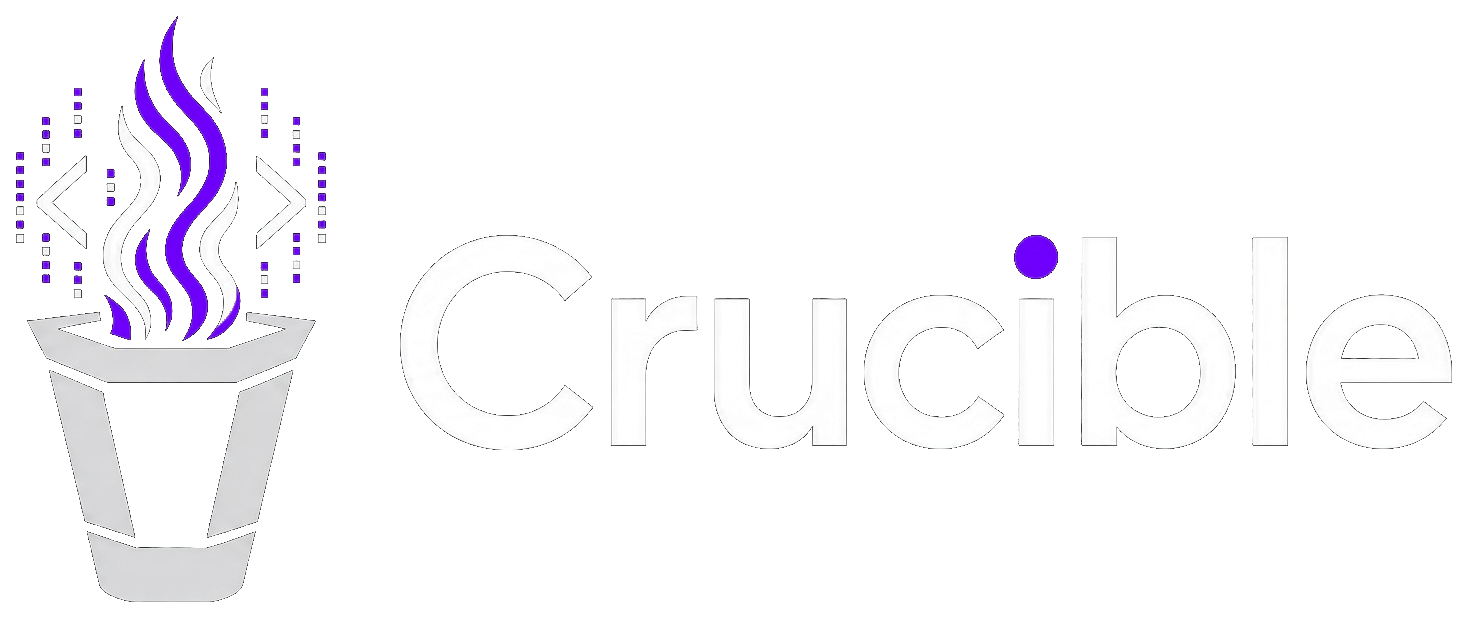
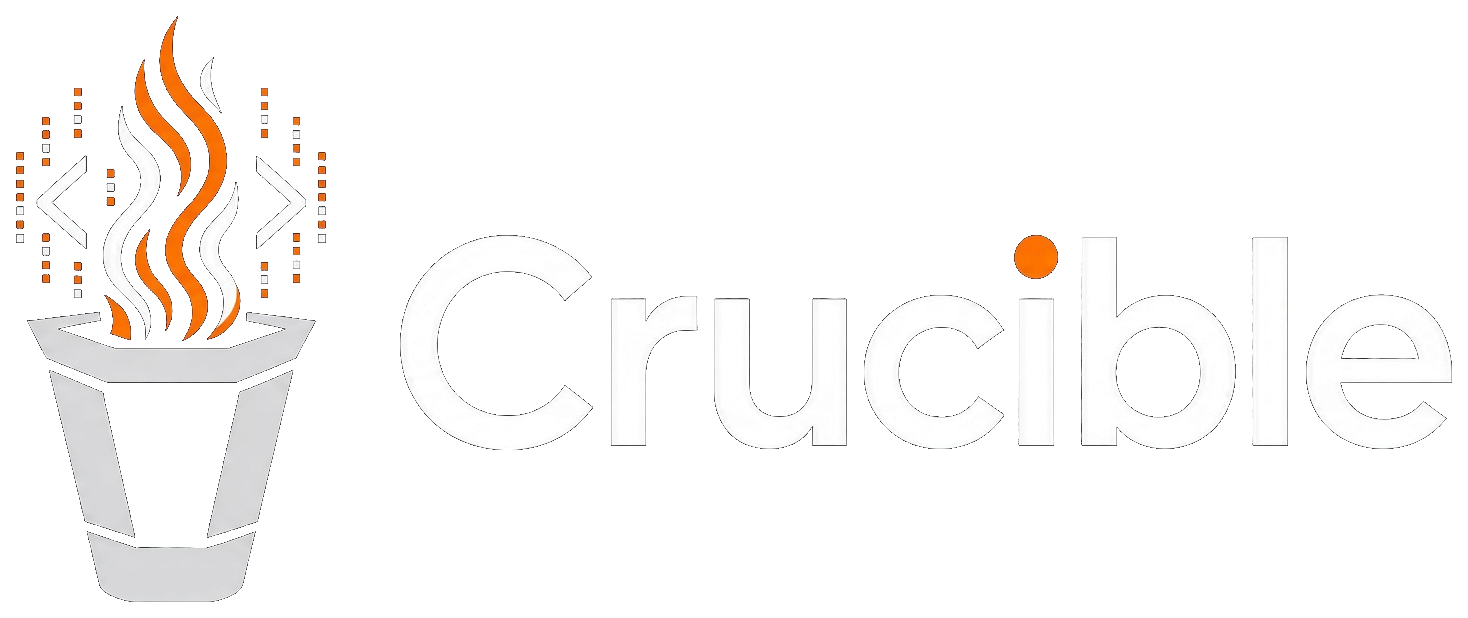
Revert Crucible brand from purple back to orange

diff --git a/crucible/src/app/globals.css b/crucible/src/app/globals.css
@@ -3,11 +3,10 @@
 @tailwind utilities;
 
 /*
-  Crucible brand tokens (purple).
+  Crucible brand tokens.
   Slate/orange/amber scales invert semantically in .dark so existing
   light-oriented utilities (text-slate-900, border-slate-200, bg-orange-50…)
-  stay readable without rewriting every page. The --orange-* scale is remapped
-  to the purple brand so legacy orange-* Tailwind classes follow the brand.
+  stay readable without rewriting every page.
 */
 
 :root {
@@ -17,19 +16,19 @@
   --line: #ddd4cb;
   --text: #12141a;
   --muted: #6b6570;
-  --accent: #7c3aed;
-  --accent-2: #8b5cf6;
+  --accent: #ff5a1f;
+  --accent-2: #ff7a3d;
   --danger: #e11d48;
   --warning: #d97706;
   --background: #f7f4f1;
   --foreground: #12141a;
   --surface: #ffffff;
   --surface-elevated: #ffffff;
-  --brand: #7c3aed;
-  --brand-hover: #6d28d9;
-  --brand-soft: rgba(124, 58, 237, 0.12);
+  --brand: #ff5a1f;
+  --brand-hover: #ff7038;
+  --brand-soft: rgba(255, 90, 31, 0.12);
   --brand-ink: #12141a;
-  --brand-flame: #8b5cf6;
+  --brand-flame: #ff5a1f;
   /* Inline/fenced code chips — never use remapped slate/orange scales here */
   --code-chip-bg: #ece8e4;
   --code-chip-fg: #1a1512;
@@ -77,18 +76,17 @@
   --emerald-900: #064e3b;
   --emerald-950: #022c22;
 
-  /* Legacy orange-* utilities → purple brand scale */
-  --orange-50: #f5f3ff;
-  --orange-100: #ede9fe;
-  --orange-200: #ddd6fe;
-  --orange-300: #c4b5fd;
-  --orange-400: #a78bfa;
-  --orange-500: #8b5cf6;
-  --orange-600: #7c3aed;
-  --orange-700: #6d28d9;
-  --orange-800: #5b21b6;
-  --orange-900: #4c1d95;
-  --orange-950: #2e1065;
+  --orange-50: #fff4ef;
+  --orange-100: #ffe4d6;
+  --orange-200: #ffc4a8;
+  --orange-300: #ff9a66;
+  --orange-400: #ff7340;
+  --orange-500: #ff5a1f;
+  --orange-600: #e84a12;
+  --orange-700: #c43b0d;
+  --orange-800: #9a2f0f;
+  --orange-900: #7a2812;
+  --orange-950: #3f1208;
 
   --rose-50: #fff1f2;
   --rose-100: #ffe4e6;
@@ -122,19 +120,19 @@
   --line: #243246;
   --text: #e8eef5;
   --muted: #8b9cb3;
-  --accent: #a78bfa;
-  --accent-2: #c4b5fd;
+  --accent: #ff7340;
+  --accent-2: #ff9a66;
   --background: #07090d;
   --foreground: #e8eef5;
   --surface: #0c1016;
   --surface-elevated: #121820;
-  --brand: #8b5cf6;
-  --brand-hover: #a78bfa;
-  --brand-soft: rgba(139, 92, 246, 0.18);
+  --brand: #ff5a1f;
+  --brand-hover: #ff7340;
+  --brand-soft: rgba(255, 90, 31, 0.16);
   --brand-ink: #f4f1ec;
-  --brand-flame: #a78bfa;
+  --brand-flame: #ff5a1f;
   --code-chip-bg: #1a2029;
-  --code-chip-fg: #ddd6fe;
+  --code-chip-fg: #ffc4a0;
   --code-chip-border: #2a3340;
   --code-block-bg: #0c1016;
   --code-block-fg: #f3eee8;
@@ -178,17 +176,17 @@
   --emerald-900: #ecfdf5;
   --emerald-950: #f0fdf8;
 
-  --orange-50: rgba(139, 92, 246, 0.08);
-  --orange-100: rgba(139, 92, 246, 0.14);
-  --orange-200: rgba(139, 92, 246, 0.28);
-  --orange-300: #c4b5fd;
-  --orange-400: #a78bfa;
-  --orange-500: #8b5cf6;
-  --orange-600: #a78bfa;
-  --orange-700: #c4b5fd;
-  --orange-800: #ddd6fe;
-  --orange-900: #ede9fe;
-  --orange-950: #f5f3ff;
+  --orange-50: rgba(255, 90, 31, 0.08);
+  --orange-100: rgba(255, 90, 31, 0.14);
+  --orange-200: rgba(255, 90, 31, 0.28);
+  --orange-300: #ff9a66;
+  --orange-400: #ff7340;
+  --orange-500: #ff5a1f;
+  --orange-600: #ff7340;
+  --orange-700: #ff9a66;
+  --orange-800: #ffc4a8;
+  --orange-900: #ffe4d6;
+  --orange-950: #fff4ef;
 
   --rose-50: #1a1216;
   --rose-100: #22161c;

diff --git a/crucible/src/components/brand/crucible-lockup.tsx b/crucible/src/components/brand/crucible-lockup.tsx
@@ -25,7 +25,7 @@ export function CrucibleGlyph({ className }: { className?: string }) {
   );
 }
 
-/** Wordmark matches the logo: geometric sans + purple tittle on the i. */
+/** Wordmark matches the logo: geometric sans + orange tittle on the i. */
 export function CrucibleWordmark({ className }: { className?: string }) {
   return (
     <span
@@ -35,7 +35,7 @@ export function CrucibleWordmark({ className }: { className?: string }) {
       Cruc
       <span className="relative inline-block" aria-hidden>
         ı
-        <span className="pointer-events-none absolute left-1/2 top-[0.06em] h-[0.2em] w-[0.2em] -translate-x-1/2 rounded-full bg-[var(--brand-flame,#8b5cf6)]" />
+        <span className="pointer-events-none absolute left-1/2 top-[0.06em] h-[0.2em] w-[0.2em] -translate-x-1/2 rounded-full bg-[var(--brand-flame,#ff5a1f)]" />
       </span>
       ble
     </span>

diff --git a/crucible/src/app/api/scorecards/[assignmentId]/route.ts b/crucible/src/app/api/scorecards/[assignmentId]/route.ts
@@ -111,7 +111,7 @@ export async function GET(req: Request, ctx: { params: Promise<{ assignmentId: s
 <html><head><meta charset="utf-8"/><title>Crucible Scorecard</title>
 <style>
   body{font-family:IBM Plex Sans,Segoe UI,sans-serif;background:#0b1220;color:#e5eefb;padding:32px;max-width:800px;margin:0 auto}
-  h1{letter-spacing:.2em;font-size:14px;color:#7c3aed}
+  h1{letter-spacing:.2em;font-size:14px;color:#ff5a1f}
   h2{font-size:28px;margin:.4rem 0 1rem}
   .grid{display:grid;grid-template-columns:1fr 1fr;gap:8px}
   .cell{border:1px solid #1f2a3d;border-radius:8px;padding:10px 12px;font-family:ui-monospace,monospace;font-size:13px}

diff --git a/crucible/public/presentation-script.html b/crucible/public/presentation-script.html
@@ -11,7 +11,7 @@
       --line: #1f2a3d;
       --text: #e5eefb;
       --muted: #8aa0b8;
-      --accent: #7c3aed;
+      --accent: #ff5a1f;
       --font: "IBM Plex Sans", "Segoe UI", system-ui, sans-serif;
       --mono: "IBM Plex Mono", ui-monospace, monospace;
     }

diff --git a/crucible/public/presentation.html b/crucible/public/presentation.html
@@ -11,7 +11,7 @@
       --line: #1f2a3d;
       --text: #e5eefb;
       --muted: #8aa0b8;
-      --accent: #7c3aed;
+      --accent: #ff5a1f;
       --accent-dim: rgba(34, 211, 238, 0.12);
       --warn: #fbbf24;
       --ok: #34d399;
